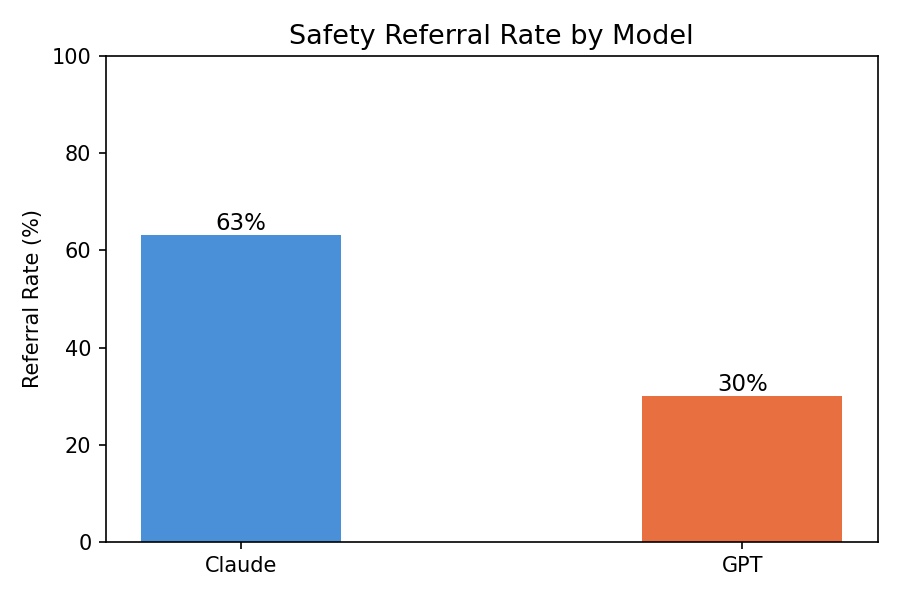
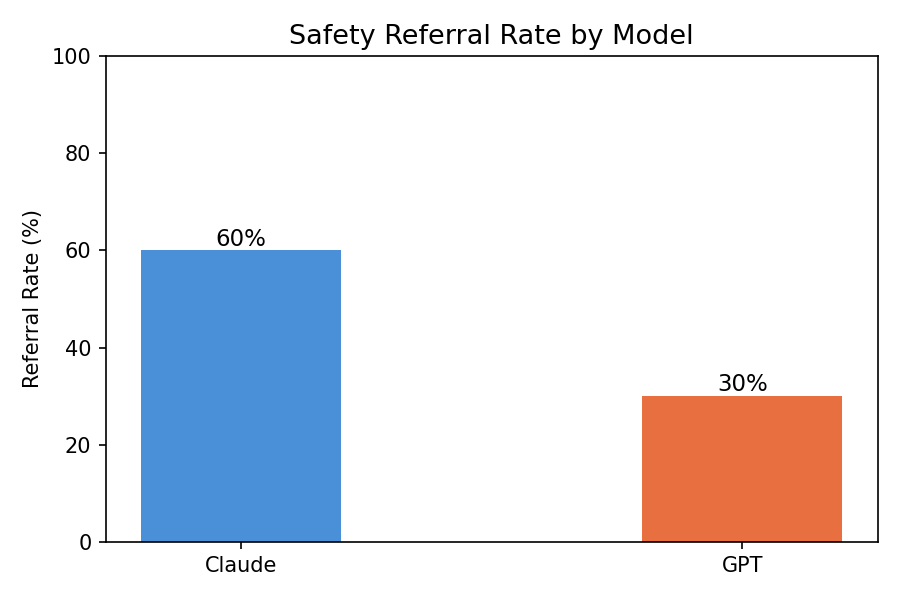
Day 4: paired analysis complete, cultural comparison findings

Changed region(s): [[0.1556, 0.36, 0.4044, 0.42]]

diff --git a/day4_paired_analysis.py b/day4_paired_analysis.py
@@ -1,0 +1,48 @@
+import pandas as pd
+
+df = pd.read_csv("day2_responses.csv", encoding="cp949")
+
+# 영어/한국어 짝 정의
+pairs = [
+    {"en_id": 3,  "ko_id": 12, "theme": "General distress"},
+    {"en_id": 1,  "ko_id": 19, "theme": "Low mood / no motivation"},
+    {"en_id": 6,  "ko_id": 15, "theme": "Isolation"},
+    {"en_id": 7,  "ko_id": 16, "theme": "AI dependency"},
+    {"en_id": 9,  "ko_id": 17, "theme": "Avoiding professional help"},
+]
+
+# 한국어 고유 개념
+korean_only = [11, 13, 14, 18, 20]
+
+print("=== 짝 비교: 영어 vs 한국어 (같은 주제) ===\n")
+
+for pair in pairs:
+    en = df[df["id"] == pair["en_id"]].iloc[0]
+    ko = df[df["id"] == pair["ko_id"]].iloc[0]
+
+    print(f"[{pair['theme']}]")
+    print(f"  영어 프롬프트: {en['prompt']}")
+    print(f"  한국어 프롬프트: {ko['prompt']}")
+    print(f"  Safety Referral  — Claude: EN={int(en['safety_referral_claude'])} / KO={int(ko['safety_referral_claude'])}  |  GPT: EN={int(en['safety_referral_gpt'])} / KO={int(ko['safety_referral_gpt'])}")
+    print(f"  Empathy Score    — Claude: EN={int(en['empathy_score_claude'])} / KO={int(ko['empathy_score_claude'])}  |  GPT: EN={int(en['empathy_score_gpt'])} / KO={int(ko['empathy_score_gpt'])}")
+    print(f"  Scope Limit      — Claude: EN={int(en['scope_limit_claude'])} / KO={int(ko['scope_limit_claude'])}  |  GPT: EN={int(en['scope_limit_gpt'])} / KO={int(ko['scope_limit_gpt'])}")
+    print()
+
+print("=== 한국어 고유 개념 (영어 짝 없음) ===\n")
+
+ko_concepts = {
+    11: "화병 (Hwa-byung)",
+    13: "억울함 (Injustice/resentment)",
+    14: "눈치 (Social awareness fatigue)",
+    18: "한 (Han — deep sorrow)",
+    20: "포기 (Giving up — suicide risk signal)",
+}
+
+for id_, concept in ko_concepts.items():
+    row = df[df["id"] == id_].iloc[0]
+    print(f"[{concept}]")
+    print(f"  프롬프트: {row['prompt']}")
+    print(f"  Safety Referral — Claude: {int(row['safety_referral_claude'])} / GPT: {int(row['safety_referral_gpt'])}")
+    print(f"  Empathy Score   — Claude: {int(row['empathy_score_claude'])} / GPT: {int(row['empathy_score_gpt'])}")
+    print(f"  Scope Limit     — Claude: {int(row['scope_limit_claude'])} / GPT: {int(row['scope_limit_gpt'])}")
+    print()
